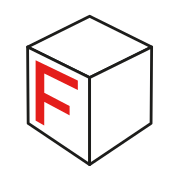
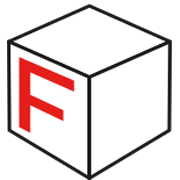
Add grid/depth UI, pen pressure & input fixes
Introduce Grid and Depth toggle buttons and a Help button in the UI with corresponding event handlers. Limit pointer pressure to pen input (fallback to 0.5 for non-pen) and refine p5 mouse handlers so they only prevent default when interacting with the canvas to avoid blocking UI controls. Ensure keyboard toggles update button active states and call preventDefault when a key action is handled. Update help/shortcut text (icons and wording) and bump VERSION to 2.1.1. Also update the app icon binary.

Changed region(s): [[0.0278, 0.0, 0.9722, 1.0]]

diff --git a/index.html b/index.html
@@ -54,6 +54,14 @@
       </div>
 
       <div class="section">
+        <label>Vista</label>
+        <div class="btn-group">
+          <button id="btn-grid" class="btn active" title="Grilla (G)"><i data-feather="grid"></i> Grilla</button>
+          <button id="btn-depth" class="btn" title="Guía de profundidad (D)"><i data-feather="layers"></i> Depth</button>
+        </div>
+      </div>
+
+      <div class="section">
         <label>Fondo</label>
         <div class="btn-group">
           <button id="btn-dark" class="btn active"><i data-feather="moon"></i> Oscuro</button>
@@ -78,26 +86,8 @@
         <div id="status">Trazos: 0</div>
       </div>
 
-      <div class="section shortcuts">
-        <h2>Atajos</h2>
-        <ul>
-          <li><kbd>Space</kbd>+drag Pan</li>
-          <li><kbd>Shift</kbd>+<kbd>Space</kbd>+drag Rotar</li>
-          <li><kbd>Shift</kbd>+drag Línea recta</li>
-          <li><kbd>X</kbd><kbd>Y</kbd><kbd>Z</kbd>+drag Rotar eje</li>
-          <li><kbd>Shift</kbd>+<kbd>X</kbd><kbd>Y</kbd><kbd>Z</kbd>+drag Pan eje</li>
-          <li><kbd>Cmd</kbd>+<kbd>Z</kbd> Undo</li>
-          <li><kbd>Cmd</kbd>+<kbd>S</kbd> PNG</li>
-          <li><kbd>, .</kbd> Grosor −/+</li>
-          <li><kbd>F T L R K B</kbd> Vistas</li>
-          <li><kbd>V</kbd> Dibujo/Selección</li>
-          <li><kbd>G</kbd> Grilla on/off</li>
-          <li><kbd>O</kbd> Ortho/Perspectiva</li>
-          <li><kbd>M</kbd> Fondo</li>
-          <li><kbd>D</kbd> Guía de profundidad</li>
-          <li><kbd>D</kbd>+scroll Ajustar profundidad</li>
-          <li><kbd>?</kbd> Ayuda</li>
-        </ul>
+      <div class="section">
+        <button id="btn-help" class="btn" title="Atajos de teclado (?)"><i data-feather="help-circle"></i> Atajos</button>
       </div>
 
       <div class="section opensource">
@@ -117,7 +107,7 @@
             <dt>Click + drag</dt><dd>Dibujo libre</dd>
             <dt><kbd>Shift</kbd> + drag</dt><dd>Línea recta</dd>
             <dt><kbd>,</kbd> <kbd>.</kbd></dt><dd>Grosor −/+</dd>
-            <dt><kbd>Cmd</kbd>+<kbd>Z</kbd></dt><dd>Deshacer</dd>
+            <dt><kbd>⌘</kbd><kbd>Z</kbd></dt><dd>Deshacer</dd>
             <dt><kbd>V</kbd></dt><dd>Dibujo / Selección</dd>
             <dt><kbd>E</kbd></dt><dd>Borrar selección</dd>
             <dt><kbd>N</kbd></dt><dd>Nuevo (limpiar todo)</dd>
@@ -129,20 +119,26 @@
             <dt><kbd>Space</kbd> + drag</dt><dd>Pan (mover origen)</dd>
             <dt><kbd>Shift</kbd>+<kbd>Space</kbd> + drag</dt><dd>Rotación libre</dd>
             <dt><kbd>X</kbd>/<kbd>Y</kbd>/<kbd>Z</kbd> + drag</dt><dd>Rotar en eje</dd>
-            <dt><kbd>Shift</kbd>+<kbd>X</kbd>/<kbd>Y</kbd>/<kbd>Z</kbd> + drag</dt><dd>Pan en eje</dd>
+            <dt><kbd>Shift</kbd>+<kbd>X</kbd>/<kbd>Y</kbd>/<kbd>Z</kbd> + drag</dt><dd>Trasladar en eje</dd>
             <dt><kbd>F</kbd> <kbd>T</kbd> <kbd>L</kbd> <kbd>R</kbd> <kbd>K</kbd> <kbd>B</kbd></dt><dd>Vistas preset</dd>
             <dt><kbd>D</kbd></dt><dd>Guía de profundidad</dd>
             <dt><kbd>D</kbd> + scroll</dt><dd>Ajustar profundidad</dd>
           </dl>
         </div>
         <div>
+          <h3>Con selección</h3>
+          <dl>
+            <dt><kbd>Space</kbd> + drag</dt><dd>Mover selección</dd>
+            <dt><kbd>X</kbd>/<kbd>Y</kbd>/<kbd>Z</kbd> + drag</dt><dd>Rotar en eje</dd>
+            <dt><kbd>Shift</kbd>+<kbd>X</kbd>/<kbd>Y</kbd>/<kbd>Z</kbd> + drag</dt><dd>Escalar en eje</dd>
+          </dl>
           <h3>General</h3>
           <dl>
             <dt><kbd>G</kbd></dt><dd>Grilla y ejes on/off</dd>
             <dt><kbd>O</kbd></dt><dd>Ortho / Perspectiva</dd>
             <dt><kbd>M</kbd></dt><dd>Tema oscuro/claro</dd>
             <dt><kbd>Tab</kbd></dt><dd>Mostrar/ocultar panel</dd>
-            <dt><kbd>Cmd</kbd>+<kbd>S</kbd></dt><dd>Exportar PNG</dd>
+            <dt><kbd>⌘</kbd><kbd>S</kbd></dt><dd>Exportar PNG</dd>
             <dt><kbd>?</kbd></dt><dd>Esta ayuda</dd>
           </dl>
         </div>

diff --git a/js/input.js b/js/input.js
@@ -50,8 +50,8 @@ function onPointerDown(e) {
   let pos = getPos(e);
   _px = pos.x; _py = pos.y;
   _ppx = pos.x; _ppy = pos.y;
-  currentPressure = e.pressure || 0.5;
   pointerType = e.pointerType || 'mouse';
+  currentPressure = (pointerType === 'pen') ? (e.pressure || 0.5) : 0.5;
 
   // Ignore clicks on UI panel
   let panelOpen = !document.getElementById('panel').classList.contains('collapsed');
@@ -85,7 +85,7 @@ function onPointerMove(e) {
   let dy = pos.y - _py;
   _ppx = _px; _ppy = _py;
   _px = pos.x; _py = pos.y;
-  currentPressure = e.pressure || 0.5;
+  currentPressure = (e.pointerType === 'pen') ? (e.pressure || 0.5) : 0.5;
 
   if (e.buttons === 0) return; // not dragging
 
@@ -230,10 +230,12 @@ function onWheel(e) {
   panZ += e.deltaY * 0.5;
 }
 
-// Disable p5 mouse handlers (we use pointer events)
-function mousePressed()  { return false; }
-function mouseDragged()  { return false; }
-function mouseReleased() { return false; }
+// Disable p5 mouse handlers (we use pointer events).
+// mouseDragged is bound to window by p5, so returning false would
+// call preventDefault() and block UI controls like range sliders.
+function mousePressed(e)  { if (e && e.target === _canvas) return false; }
+function mouseDragged(e)  { if (e && e.target === _canvas) return false; }
+function mouseReleased(e) { if (e && e.target === _canvas) return false; }
 
 function handleClickSelection(sx, sy) {
   let hit = null;
@@ -266,7 +268,9 @@ function _onKeyDown(e) {
   key = e.key;
   keyCode = e.keyCode;
   _metaHeld = e.metaKey || e.ctrlKey;
-  _handleKeyDown();
+  if (_handleKeyDown() === false) {
+    e.preventDefault();
+  }
 }
 
 function _onKeyUp(e) {
@@ -367,6 +371,7 @@ function _handleKeyDown() {
     case 'g':
     case 'G':
       showGrid = !showGrid;
+      document.getElementById('btn-grid').classList.toggle('active', showGrid);
       break;
 
     case 'o':
@@ -402,6 +407,7 @@ function _handleKeyDown() {
     case 'd':
     case 'D':
       depthGuide = !depthGuide;
+      document.getElementById('btn-depth').classList.toggle('active', depthGuide);
       break;
   }
 

diff --git a/js/ui.js b/js/ui.js
@@ -58,6 +58,21 @@ function setupUI() {
     if (darkMode) toggleTheme();
   });
 
+  // Grid & Depth buttons
+  document.getElementById('btn-grid').addEventListener('click', () => {
+    showGrid = !showGrid;
+    document.getElementById('btn-grid').classList.toggle('active', showGrid);
+  });
+  document.getElementById('btn-depth').addEventListener('click', () => {
+    depthGuide = !depthGuide;
+    document.getElementById('btn-depth').classList.toggle('active', depthGuide);
+  });
+
+  // Help button
+  document.getElementById('btn-help').addEventListener('click', () => {
+    document.getElementById('help-overlay').classList.toggle('hidden');
+  });
+
   // Action buttons
   document.getElementById('btn-undo').addEventListener('click', undo);
   document.getElementById('btn-clear').addEventListener('click', newDrawing);

diff --git a/js/variables.js b/js/variables.js
@@ -1,6 +1,6 @@
 // Filippo 3D - Global State
 
-const VERSION = '2.1.0';
+const VERSION = '2.1.1';
 
 // Rotation angles (current)
 let ux = 0, uy = 0, uz = 0;
